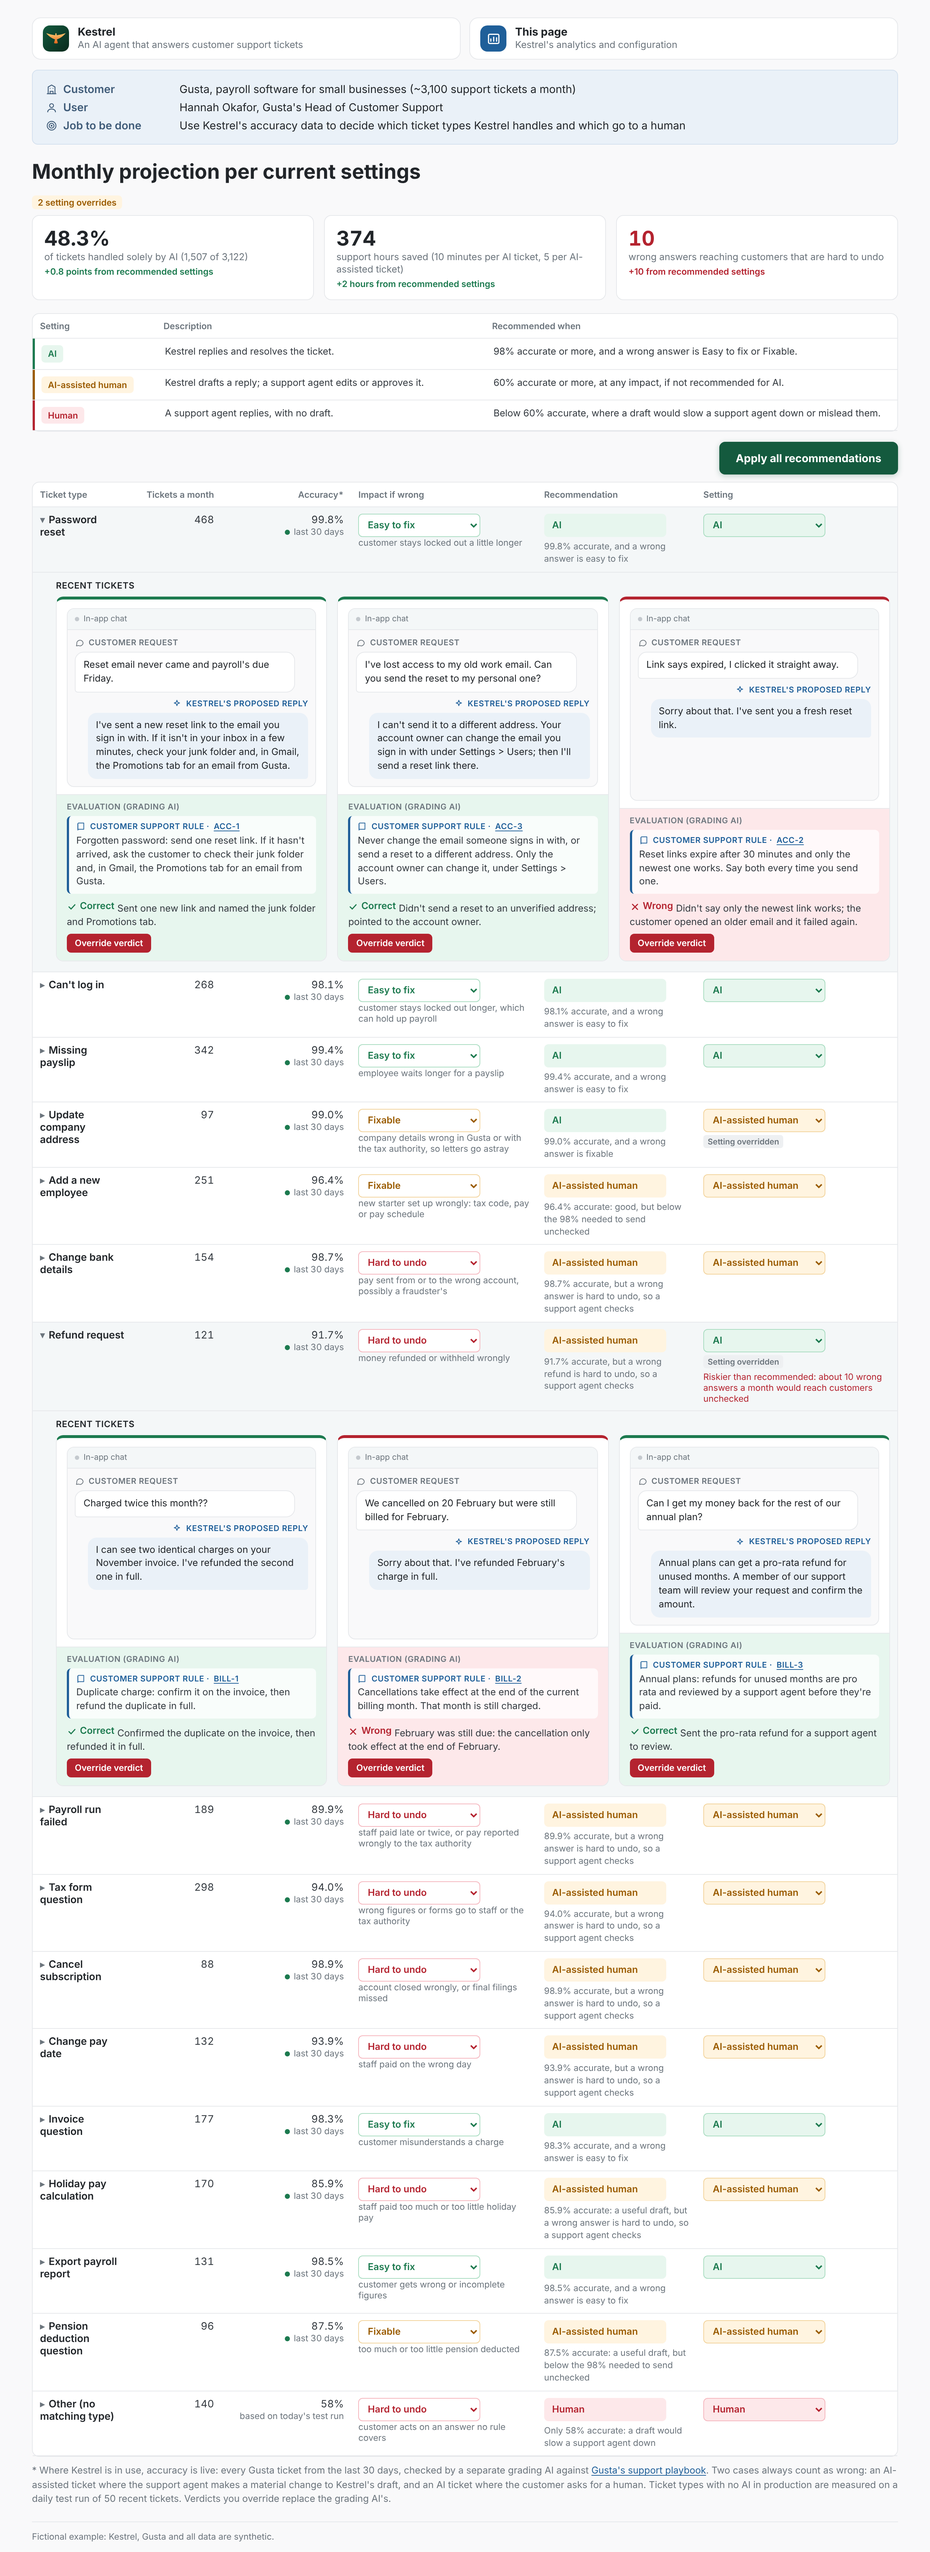
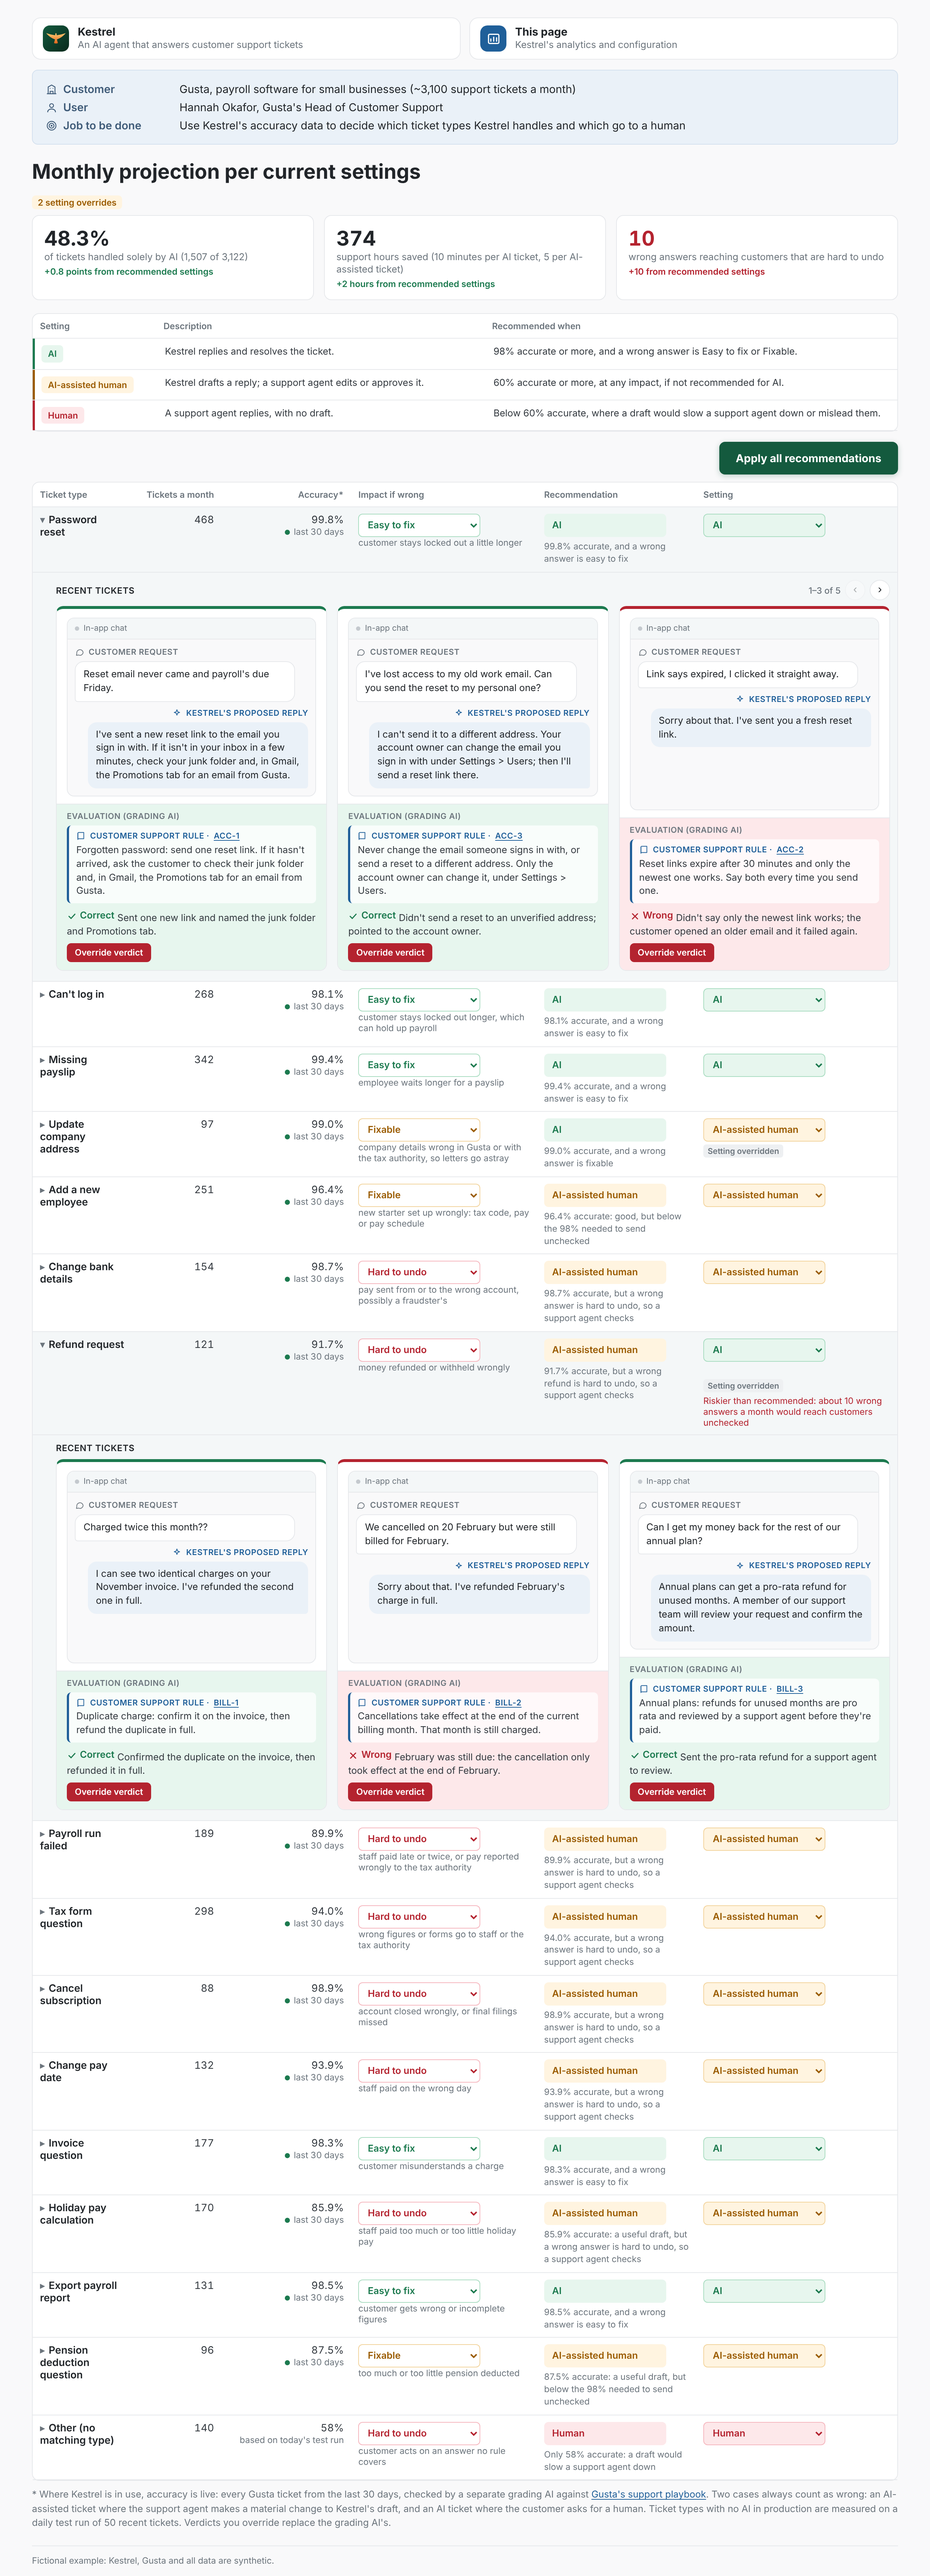
Edit and Undo override as small buttons; Password reset shows 5 recent tickets with arrows
- Edit and Undo override are small secondary buttons beside the red Override verdict
- Password reset has five recent tickets (two new, graded against ACC-1 and ACC-2), shown three at a time; the arrows on the right move one ticket at a time, with a count and disabled ends
- Accuracy and every number unchanged; checks cover the window, the arrows and the buttons

Claude-Session: https://claude.ai/code/session_016JoguXTxkWcj5knaYbAtMZ

diff --git a/examples/kestrel/build/mvp.html b/examples/kestrel/build/mvp.html
@@ -93,6 +93,13 @@ button.link{background:none;border:0;padding:0;font:inherit;font-size:12px;font-
 button.link:hover{color:var(--info-dark)}
 button.btn-sm{font:inherit;font-size:12px;font-weight:600;line-height:1;padding:6px 10px;border-radius:6px;cursor:pointer}
 button.danger{background:var(--hum);color:#fff;border:1px solid var(--hum)}button.danger:hover{background:#93202a;border-color:#93202a}
+button.secondary{background:#fff;color:var(--head);border:1px solid var(--line)}button.secondary:hover{border-color:var(--mute)}
+.vtools{display:flex;flex-wrap:wrap;gap:6px}
+.exhead{display:flex;align-items:center;justify-content:space-between}
+.exnav{display:flex;align-items:center;gap:6px;text-transform:none;letter-spacing:0;font-weight:500;color:var(--mute)}
+button.navbtn{width:28px;height:28px;border-radius:50%;border:1px solid var(--line);background:#fff;color:var(--head);font-size:16px;line-height:1;cursor:pointer;display:grid;place-items:center}
+button.navbtn:hover:not(:disabled){border-color:var(--mute)}button.navbtn:disabled{opacity:.35;cursor:default}
+.exgrid.slide{animation:exslide .25s ease}@keyframes exslide{from{opacity:.4;transform:translateX(var(--dx,12px))}to{opacity:1;transform:none}}
 .vtools{margin-top:6px;font-size:12px;color:var(--mute)}
 .ovr-note{margin-top:6px;font-size:12.5px}.ovr-note .ai-said{margin-top:4px;font-size:12px;color:var(--mute)}
 .ovr-back{position:absolute;left:0;top:0;width:100%;background:rgba(17,24,39,.32);z-index:50}
@@ -243,17 +250,27 @@ function render(){
       <td data-label="Recommendation"><span class="chip ctl c-${rec}">${LABEL[rec]}</span>${adj ? '' : `<div class="reason">${t.reason.replace(/\d+(\.\d)?%/, p + '%')}</div>`}</td>
       <td data-label="Setting" onclick="event.stopPropagation()"><select class="ctl s-${set}" data-i="${i}" onchange="setMode(${i}, this.value)">${['resolve', 'draft', 'human'].map(m => `<option value="${m}"${m === set ? ' selected' : ''}>${LABEL[m]}</option>`).join('')}</select>${over}${warn}</td>
 </tr>`;
-    const det = isOpen ? `<tr class="detail"><td colspan="6"><div class="exhead">Recent tickets</div><div class="exgrid">${t.examples.map((e, k) => { const key = `${i}-${k}`, o = ovr[key], ok = o ? o.correct : e.correct; return `<div class="exbox ${ok ? 'ex-ok' : 'ex-no'}" data-ex="${key}"><div class="exbody">
+    const det = isOpen ? `<tr class="detail"><td colspan="6">${exHead(i, t.examples.length)}<div class="exgrid${exSlide[i] ? ' slide' : ''}" style="--dx:${exSlide[i] || 0}px">${t.examples.map((e, k) => { if (k < exStart(i) || k >= exStart(i) + EX_SHOWN) return ''; const key = `${i}-${k}`, o = ovr[key], ok = o ? o.correct : e.correct; return `<div class="exbox ${ok ? 'ex-ok' : 'ex-no'}" data-ex="${key}"><div class="exbody">
       <div class="chat"><div class="chathead"><span class="dot"></span>${D.channel}</div><div class="chatbody">
       <div class="msg-in"><span class="who">${ic('chat')}Customer request</span><div class="bubble">${e.message}</div></div>
       <div class="msg-out"><span class="who">${ic('spark')}${K}'s proposed reply</span><div class="bubble">${e.proposed}</div></div></div></div>
       </div>
       <div class="verdict"><span class="who">Evaluation (grading AI)</span>
         <div class="rulebox"><span class="who">${ic('book')}Customer support rule · <a class="rule-link" href="playbook.html#${e.rule_id}" target="_blank" rel="noopener" title="Open this rule in ${D.customer}'s support playbook">${e.rule_id}</a></span>${e.rule}</div>
-        <div class="vline"><span class="pill ${ok ? 'ok' : 'no'}">${ic(ok ? 'check' : 'cross')}${ok ? 'Correct' : 'Wrong'}</span>${o ? '<span class="tag">Verdict overridden</span>' : e.verdict_reason}${o ? `<div class="ovr-note">${o.reason ? `<b>Your reason:</b> ${esc(o.reason)}` : '<i>No reason given.</i>'}<div class="vtools"><button class="link" onclick="openOverride(${i}, ${k}, this)">Edit</button> · <button class="link" onclick="undoOverride(${i}, ${k})">Undo override</button></div><div class="ai-said">The grading AI marked it ${e.correct ? 'Correct' : 'Wrong'}: ${e.verdict_reason}</div></div>` : `<div class="vtools"><button class="btn-sm danger" onclick="openOverride(${i}, ${k}, this)" aria-label="Override the grading AI's verdict">Override verdict</button></div>`}</div></div></div>`; }).join('')}</div></td></tr>` : '';
+        <div class="vline"><span class="pill ${ok ? 'ok' : 'no'}">${ic(ok ? 'check' : 'cross')}${ok ? 'Correct' : 'Wrong'}</span>${o ? '<span class="tag">Verdict overridden</span>' : e.verdict_reason}${o ? `<div class="ovr-note">${o.reason ? `<b>Your reason:</b> ${esc(o.reason)}` : '<i>No reason given.</i>'}<div class="vtools"><button class="btn-sm secondary" onclick="openOverride(${i}, ${k}, this)">Edit</button><button class="btn-sm secondary" onclick="undoOverride(${i}, ${k})">Undo override</button></div><div class="ai-said">The grading AI marked it ${e.correct ? 'Correct' : 'Wrong'}: ${e.verdict_reason}</div></div>` : `<div class="vtools"><button class="btn-sm danger" onclick="openOverride(${i}, ${k}, this)" aria-label="Override the grading AI's verdict">Override verdict</button></div>`}</div></div></div>`; }).join('')}</div></td></tr>` : '';
     return main + det; }).join('');
   document.getElementById('types').innerHTML = `<tr class="hdr"><th>Ticket type</th><th class="n">Tickets a month</th><th class="n" id="thAcc"><span id="thAccLabel">Accuracy*</span></th><th>Impact if wrong</th><th>Recommendation</th><th>Setting</th></tr>${rows}`;
 }
+// recent tickets: three at a time; arrows move the window one ticket
+const EX_SHOWN = 3; let exPos = {}, exSlide = {};
+const exStart = i => exPos[i] || 0;
+function exHead(i, n){ if (n <= EX_SHOWN) return '<div class="exhead"><span>Recent tickets</span></div>';
+  const a = exStart(i), b = Math.min(n, a + EX_SHOWN);
+  return `<div class="exhead"><span>Recent tickets</span><span class="exnav"><span class="excount">${a + 1}–${b} of ${n}</span>
+    <button class="navbtn" aria-label="Previous tickets" onclick="exMove(${i}, -1)"${a === 0 ? ' disabled' : ''}>‹</button>
+    <button class="navbtn" aria-label="Next tickets" onclick="exMove(${i}, 1)"${b >= n ? ' disabled' : ''}>›</button></span></div>`; }
+function exMove(i, d){ const n = D.types[i].examples.length; exPos[i] = Math.max(0, Math.min(n - EX_SHOWN, exStart(i) + d));
+  exSlide[i] = d * 12; render(); exSlide[i] = 0; }
 const esc = v => String(v).replace(/[&<>"']/g, c => ({'&': '&amp;', '<': '&lt;', '>': '&gt;', '"': '&quot;', "'": '&#39;'}[c]));
 const verdictOf = (i, k) => { const o = ovr[`${i}-${k}`]; return o ? o.correct : D.types[i].examples[k].correct; };
 // an overridden verdict counts in accuracy: the type moves by one ticket; the setting follows the recommendation only if it was on it

diff --git a/examples/kestrel/build/check_mvp.js b/examples/kestrel/build/check_mvp.js
@@ -47,6 +47,7 @@ const srv = http.createServer((q, r) => { const f = path.join(root, decodeURICom
     t('override pop-up shows what the grading AI said and the change', await p.isVisible('#ovr') && (await txt('#ovr')).includes('The grading AI marked this Correct. Change it to Wrong? It will count in'));
     await p.fill('#ovrReason', 'Missed the 30-minute limit.'); await p.click('#ovrSave');
     t('override flips the verdict, shows the reason, and counts in accuracy', !(await p.$('#ovr')) && (await p.getAttribute(ex, 'class')).includes('ex-no') && (await txt(ex)).includes('Verdict overridden') && (await txt(ex)).includes('Your reason: Missed the 30-minute limit.') && (await txt(ex)).includes('The grading AI marked it Correct') && (await acc()).includes('99.6%'));
+    t('Edit and Undo override are small buttons', await p.$eval(`${ex} .vtools`, v => [...v.querySelectorAll('button')].map(b => b.className).join('|')) === 'btn-sm secondary|btn-sm secondary');
     await p.click(`${ex} .vtools button:has-text("Edit")`);
     t('edit opens the pop-up with the reason filled in', (await txt('#ovrTitle')) === 'Edit your override' && (await p.inputValue('#ovrReason')) === 'Missed the 30-minute limit.');
     await p.fill('#ovrReason', 'Left out the 30-minute limit.'); await p.click('#ovrSave');
@@ -60,6 +61,12 @@ const srv = http.createServer((q, r) => { const f = path.join(root, decodeURICom
     await p.click('.exbox[data-ex="0-2"] .vtools button'); await p.click('#ovrSave');
     t('Wrong to Correct also works, without a reason', (await p.getAttribute('.exbox[data-ex="0-2"]', 'class')).includes('ex-ok') && (await acc()).includes('100.0%'));
     await p.click('.exbox[data-ex="0-2"] .vtools button:has-text("Undo override")'); }
+  { const cnt = () => txt('tr.detail .excount'), shown = () => p.$$eval('tr.detail .exbox', es => es.map(e => e.dataset.ex).join(','));
+    t('Password reset shows 3 of its 5 recent tickets, with arrows', (await cnt()) === '1–3 of 5' && (await shown()) === '0-0,0-1,0-2' && await p.isDisabled('button[aria-label="Previous tickets"]'));
+    await p.click('button[aria-label="Next tickets"]'); await p.click('button[aria-label="Next tickets"]');
+    t('next moves one ticket at a time, and stops at the end', (await cnt()) === '3–5 of 5' && (await shown()) === '0-2,0-3,0-4' && await p.isDisabled('button[aria-label="Next tickets"]'));
+    await p.click('button[aria-label="Previous tickets"]'); await p.click('button[aria-label="Previous tickets"]');
+    t('previous moves back to the start', (await cnt()) === '1–3 of 5' && (await shown()) === '0-0,0-1,0-2'); }
   t('examples use the four labels', ['Customer request', "Kestrel's proposed reply", 'Customer support rule', 'Evaluation (grading AI)'].every(l => det.includes(l)));
   await p.click('tr.row:has-text("Refund request") .name');
   t('clicking a row expands it, with a Wrong example', (await p.$$('tr.detail')).length === 2 && (await txt('#types')).includes('February was still due'));

diff --git a/examples/kestrel/build/test_mvp.js b/examples/kestrel/build/test_mvp.js
@@ -10,7 +10,7 @@ BRIEF.forEach(([name, tk, tested, k, risk, rec], i) => { const x = D.types[i];
   t(`${name}: data matches; tested on all 30-day tickets if Kestrel is used, else 50 in the daily test`, x.name === name && x.tickets === tk && x.tested === (rec === 'human' ? 50 : tk) && x.tested === tested && x.correct === k && x.risk === risk);
   t(`${name}: reason quotes the live accuracy`, x.reason.includes((k / tested * 100).toFixed(tested === 50 ? 0 : 1) + '%'));
   t(`${name}: rules give the brief's recommendation`, C.recommend(x, n) === rec);
-  t(`${name}: 3 examples with message, proposal, rule and verdict`, x.examples.length === 3 && x.examples.every(e => e.message && e.proposed && e.rule && e.verdict_reason));
+  t(`${name}: 3 recent tickets (5 for Password reset) with message, proposal, rule and verdict`, x.examples.length === (name === 'Password reset' ? 5 : 3) && x.examples.every(e => e.message && e.proposed && e.rule && e.verdict_reason));
   t(`${name}: each example quotes its rule word for word from the support playbook`, x.examples.every(e => PB.includes(`- **${e.rule_id}** ${e.rule}\n`)));
   if (k < tested) t(`${name}: below 100% so at least one Wrong example`, x.examples.some(e => !e.correct)); });
 const rec = D.types.map(x => C.recommend(x, n)), s = C.summary(D, rec);

diff --git a/examples/kestrel/notebooks/make_data.py b/examples/kestrel/notebooks/make_data.py
@@ -98,7 +98,9 @@ T = [
  ("Password reset", 468, 50, "Low", "Low: customer stays locked out a little longer", False, [
    ("Reset email never came and payroll's due Friday.", "I've sent a new reset link to the email you sign in with. If it isn't in your inbox in a few minutes, check your junk folder and, in Gmail, the Promotions tab for an email from Gusta.", 'ACC-1', True, 'Sent one new link and named the junk folder and Promotions tab.'),
    ("I've lost access to my old work email. Can you send the reset to my personal one?", "I can't send it to a different address. Your account owner can change the email you sign in with under Settings > Users; then I'll send a reset link there.", 'ACC-3', True, "Didn't send a reset to an unverified address; pointed to the account owner."),
-   ('Link says expired, I clicked it straight away.', "Sorry about that. I've sent you a fresh reset link.", 'ACC-2', False, "Didn't say only the newest link works; the customer opened an older email and it failed again.")]),
+   ('Link says expired, I clicked it straight away.', "Sorry about that. I've sent you a fresh reset link.", 'ACC-2', False, "Didn't say only the newest link works; the customer opened an older email and it failed again."),
+   ('Can you just tell me my password?', "I can't see or send passwords; nobody at Gusta can. I've sent a reset link to the email you sign in with. It works for 30 minutes, and only the newest link works.", 'ACC-2', True, 'Sent a reset link and gave the 30-minute limit and the newest-link rule.'),
+   ("I've asked for a reset three times and none of the emails came.", "I've sent another reset link.", 'ACC-1', False, 'Sent a fourth link without pointing to the junk folder or Promotions tab, where the earlier emails were.')]),
  ("Can't log in", 268, 49, "Low", "Low: customer stays locked out longer, which can hold up payroll", False, [
    ('Got a new phone and my authenticator codes are gone.', "You can sign in with one of the backup codes you saved when you set up 2-step verification. If you don't have them, I'll pass you to a support agent, who will check your identity before resetting it.", 'ACC-5', True, "Offered backup codes and a verified handover; didn't switch off 2-step in chat."),
    ("It says I'm locked out after too many tries.", "Your account locked after 5 wrong passwords. It unlocks by itself in 15 minutes; I've sent a reset link so you can choose a new password then.", 'ACC-4', True, 'Explained the 15-minute wait and sent a reset link.'),

diff --git a/README.md b/README.md
@@ -21,7 +21,7 @@ Kestrel's analytics and configuration page, for Hannah Okafor, Gusta's Head of C
 | Settings | **AI**: Kestrel replies and resolves (recommended at 98%+ accuracy when a wrong answer is Easy to fix or Fixable) · **AI-assisted human**: Kestrel drafts, a support agent approves or edits (60%+ whatever the impact, since a support agent checks every draft) · **Human**: routed to a human agent (below 60%, where a draft wouldn't save a support agent time and may confuse them instead; today only Other, the tickets that match no type) |
 | The table | 16 ticket types: tickets a month, accuracy (live where Kestrel is in use: a dot blinks every second, and every 5 seconds one ticket type updates, rows higher in the table more often, shown in green or red), impact if wrong (Easy to fix, Fixable or Hard to undo), Kestrel's recommendation with its reason, and the setting Gusta controls |
 | Adjustments | Impact and setting are both editable. Changing an impact shows "Impact adjusted" and re-runs the recommendation; changing a setting shows "Setting overridden" and warns when it gives Kestrel more autonomy than recommended. A confirmation appears after each change. The page opens with one setting override (Update company address moved down from AI to AI-assisted human, so the cost of caution shows: 3.1 points less AI share, 8 fewer hours); "Apply all recommendations" resets it. Each recent ticket's verdict can be overridden in a pop-up (Correct to Wrong or back), with an optional reason you can edit or remove; overrides count in accuracy |
-| Recent tickets | 3 under each ticket type: customer request and Kestrel's reply in a chat window, then an evaluation box with the rule it was graded against (quoted by ID from Gusta's fictional [support playbook](examples/kestrel/data/support_playbook.md)), and the grading AI's verdict (Correct or Wrong) |
+| Recent tickets | 3 under each ticket type (5 for Password reset, browsed three at a time with arrows): customer request and Kestrel's reply in a chat window, then an evaluation box with the rule it was graded against (quoted by ID from Gusta's fictional [support playbook](examples/kestrel/data/support_playbook.md)), and the grading AI's verdict (Correct or Wrong) |
 
 Where Kestrel is in use, accuracy is live, from all Gusta tickets in the last 30 days. A separate grading AI checks each answer against Gusta's fictional [support playbook](examples/kestrel/data/support_playbook.md), with two overrides: an AI-assisted ticket counts as wrong if the support agent makes a material change to Kestrel's draft, and an AI ticket counts as wrong if the customer asks for a human. Accuracy for ticket types not touched by AI in production is measured on a test run of 50 recent tickets, run daily. Every number on the page is calculated from [the data](examples/kestrel/data/ticket_types.json) and checked by [tests](examples/kestrel/build/test_mvp.js) on every push.
 
